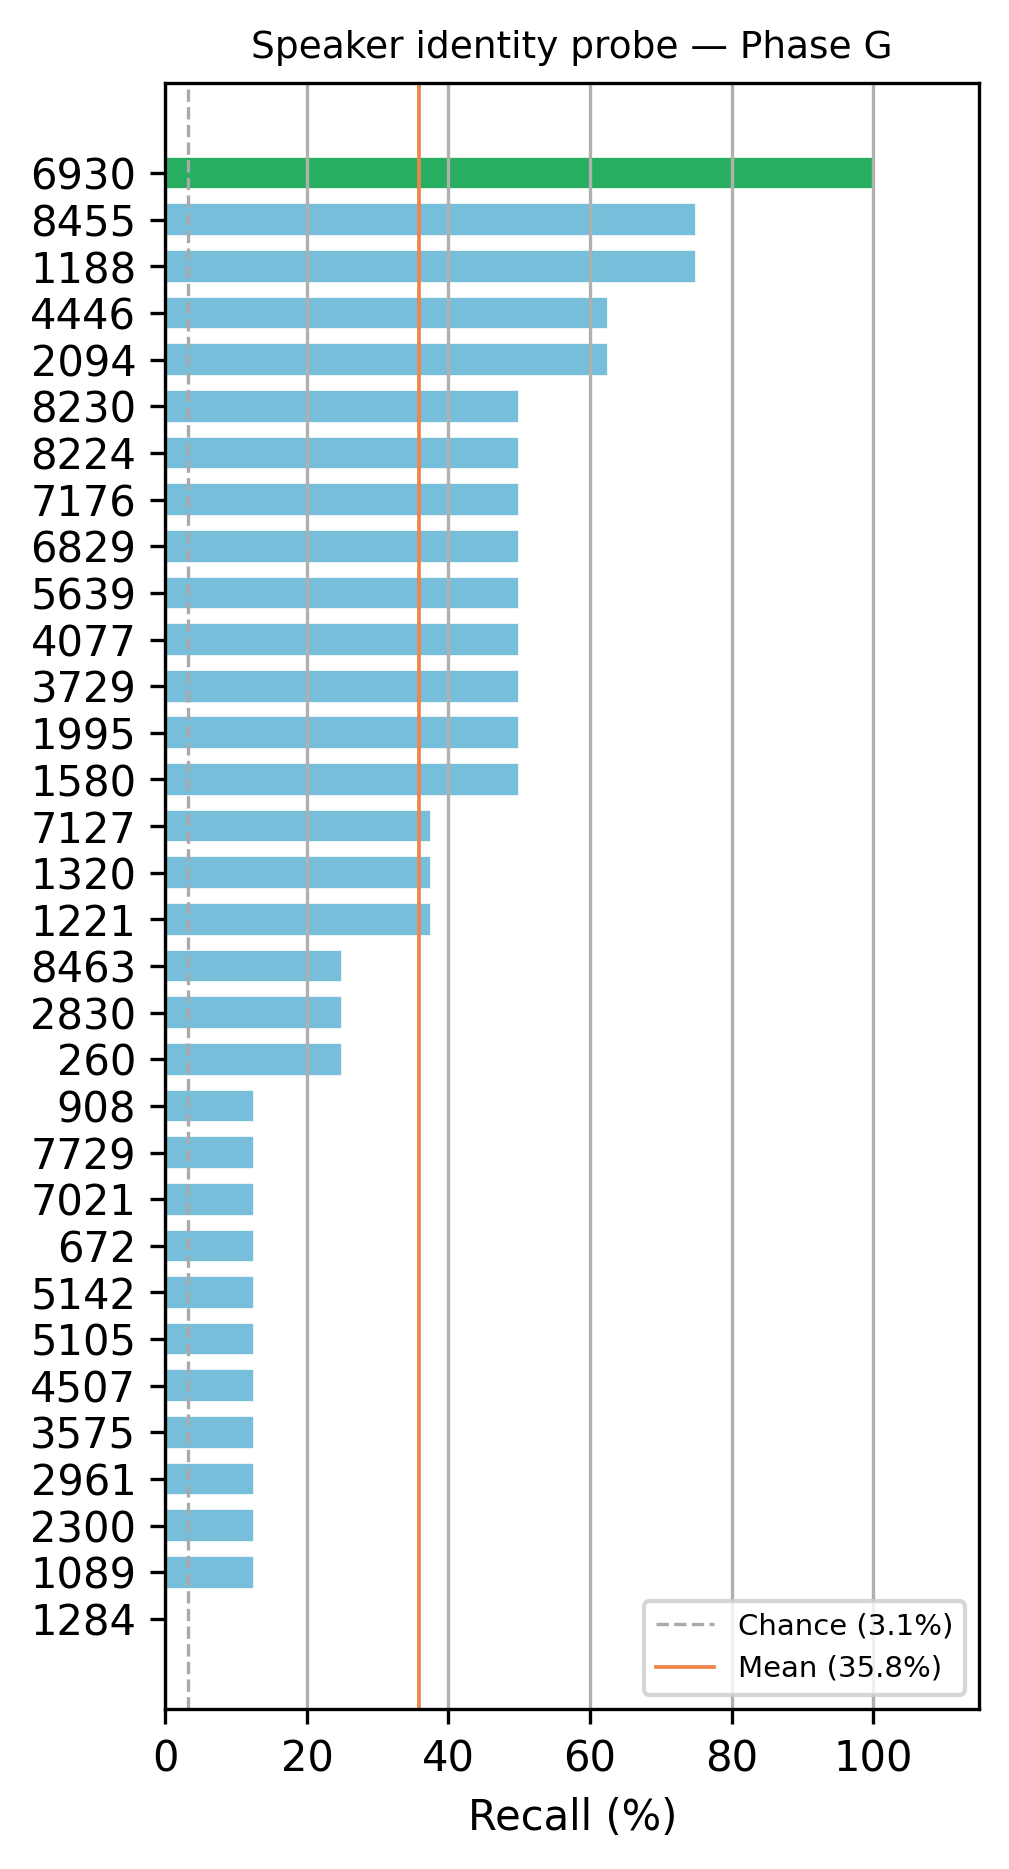
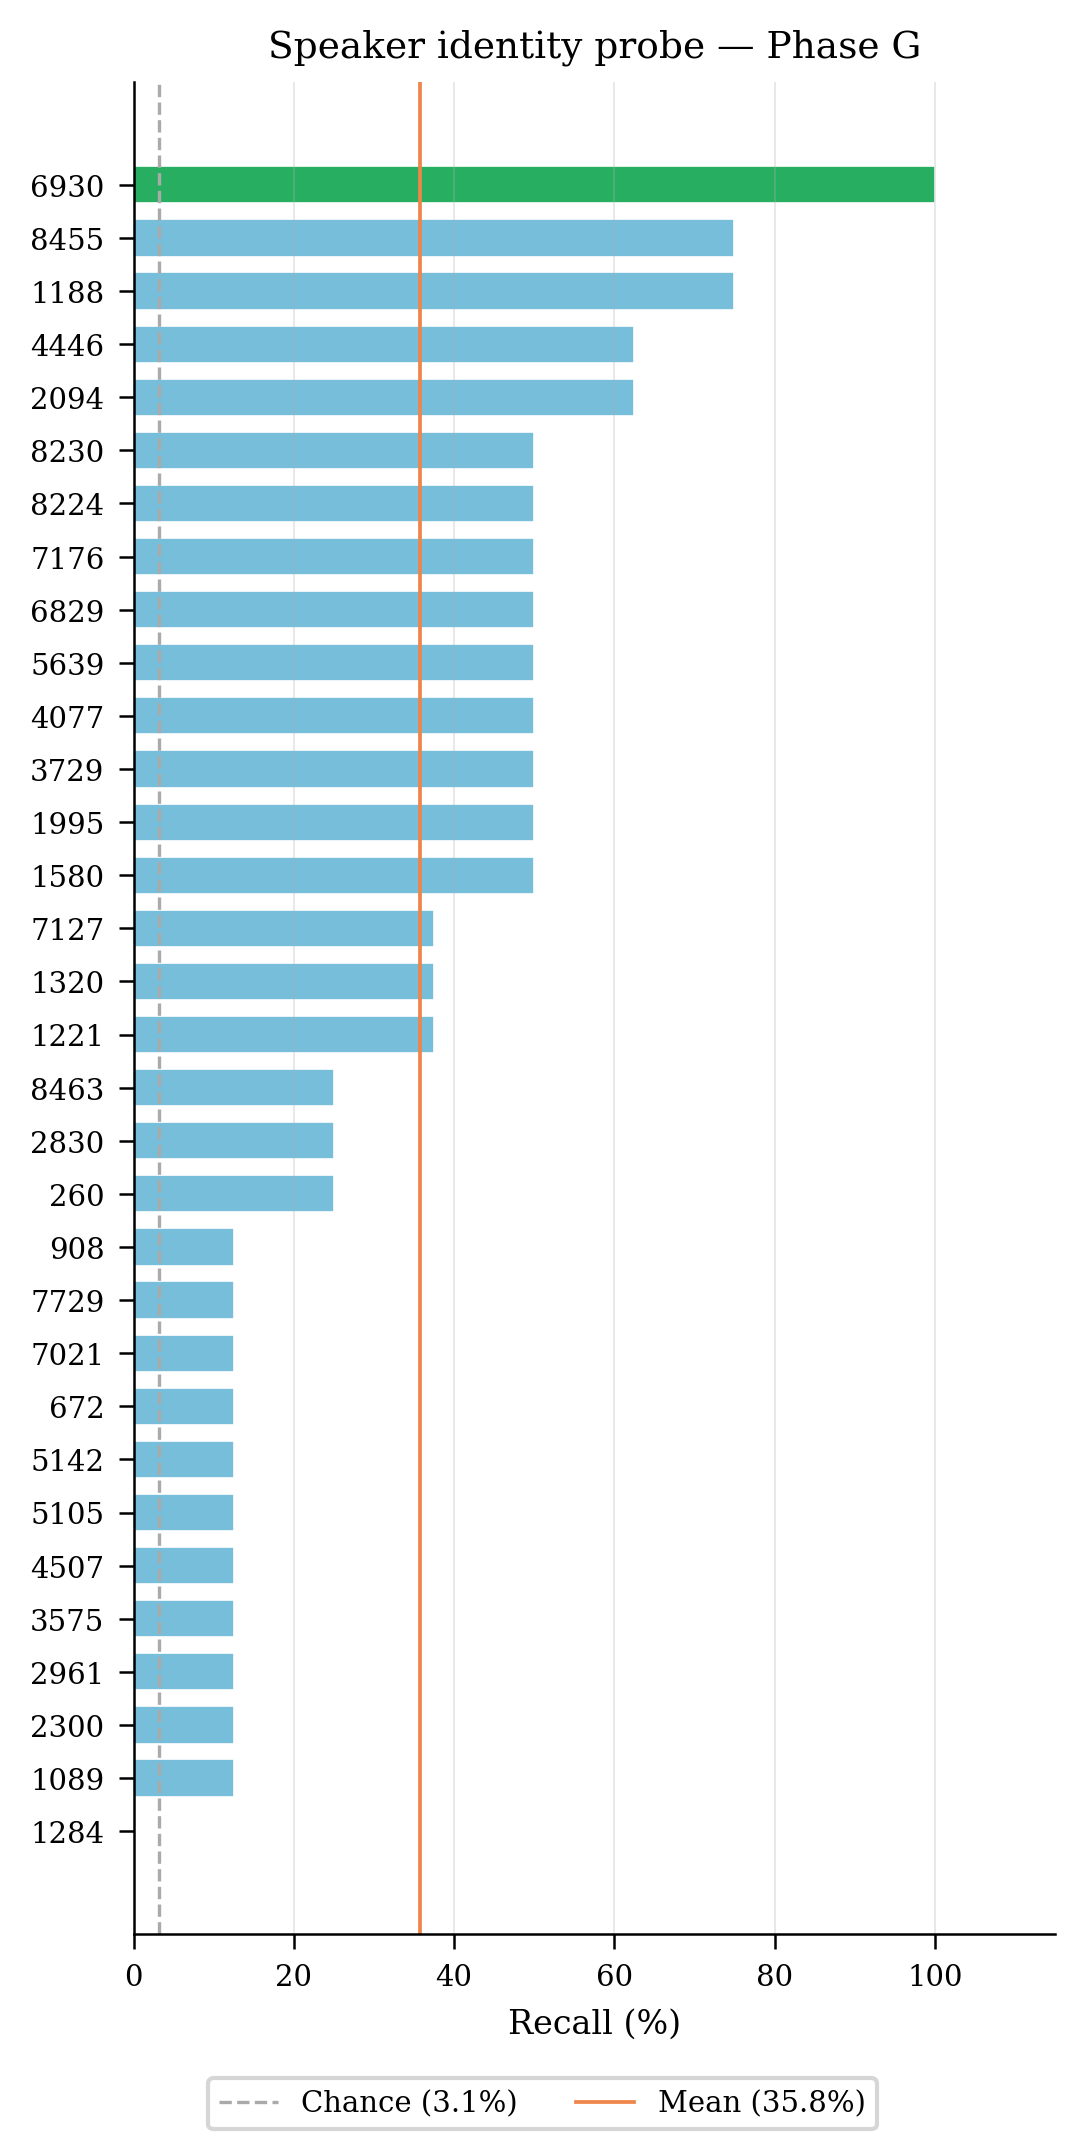
feat: update plotting functions and add centralized legend handling

Changed region(s): [[0.0307, 0.0, 0.9832, 1.0]]

diff --git a/scripts/figures/plots.py b/scripts/figures/plots.py
@@ -12,6 +12,8 @@ from matplotlib.lines import Line2D
 
 from . import style
 
+style.apply()
+
 
 class DataNotAvailable(RuntimeError):
     """Raised when a figure needs data that can't be derived from comparison reports."""
@@ -44,8 +46,8 @@ def fig_01_phase_progression(data: dict) -> plt.Figure:
         bars = ax.bar(x, vals, w, color=colors, edgecolor='white', linewidth=0.5)
         ax.errorbar(x, vals, yerr=[errs_lo, errs_hi], fmt='none',
                     color='#333', linewidth=0.8, capsize=2)
-        for bar, v in zip(bars, vals):
-            ax.text(bar.get_x() + bar.get_width() / 2, bar.get_height() + errs_hi[x[0]],
+        for bar, v, err_hi in zip(bars, vals, errs_hi):
+            ax.text(bar.get_x() + bar.get_width() / 2, bar.get_height() + err_hi,
                     f'{v:.3f}', ha='center', va='bottom', fontsize=6.5, color='#333')
         ax.set_xticks(x)
         ax.set_xticklabels(phases, fontsize=7)
@@ -97,7 +99,7 @@ def fig_01b_stoi_all_phases(data: dict) -> plt.Figure:
         ax.text(i, v + 0.005, f'{v:.3f}', ha='center', va='bottom', fontsize=6.5)
 
     ab_patch = mpatches.Patch(facecolor='#999', hatch='//', label='A/B: STOI only (PESQ unavailable)')
-    ax.legend(handles=[ab_patch], fontsize=7, loc='lower right')
+    style.legend(fig, handles=[ab_patch], labels=[ab_patch.get_label()])
     ax.set_xticks(x)
     ax.set_xticklabels(phase_order)
     ax.set_ylabel('STOI')
@@ -144,7 +146,7 @@ def fig_03_dim_entropy(data: dict) -> plt.Figure:
     ax.set_title('Per-dimension entropy — Phase G', fontsize=9)
     ax.set_xlim(-0.5, len(vals) - 0.5)
     ax.set_ylim(0.8, 2.2)
-    ax.legend(fontsize=7)
+    style.legend(fig, ax=ax)
     ax.grid(True, axis='y')
     return fig
 
@@ -198,6 +200,7 @@ def fig_05_ood(data: dict) -> plt.Figure:
               for r in rows]
 
     fig, (ax1, ax2) = plt.subplots(1, 2, figsize=(style.COL2_W, style.ROW_H + 0.5))
+    cap_line = None
     for ax, vals, xlabel, xlim, lbl in [
         (ax1, kbps,  'Effective bitrate (kbps)', (0, 10.5), True),
         (ax2, stois, 'STOI',                     (-0.1, 1.0), False),
@@ -211,15 +214,19 @@ def fig_05_ood(data: dict) -> plt.Figure:
         ax.set_xlim(*xlim)
         ax.grid(True, axis='x')
         if lbl:
-            ax.axvline(9.6, color='#aaa', linestyle=':', linewidth=0.8, label='9.6 kbps cap')
-            ax.legend(fontsize=7)
+            cap_line = ax.axvline(9.6, color='#aaa', linestyle=':', linewidth=0.8,
+                                   label='9.6 kbps cap')
+
+    # ax2 repeats ax1's category labels by default — drop them so they don't
+    # bleed into the middle of the figure, on top of ax1's bars.
+    ax2.set_yticklabels([])
 
     legend_els = [
         mpatches.Patch(color=style.PHASE_COLORS['G'],         label='Speech signal'),
         mpatches.Patch(color=style.PHASE_COLORS['D-Entropy'], label='Synthetic signal'),
+        cap_line,
     ]
-    fig.legend(handles=legend_els, fontsize=7, loc='lower center', ncol=2,
-               bbox_to_anchor=(0.5, -0.02))
+    style.legend(fig, handles=legend_els, labels=[h.get_label() for h in legend_els], ncol=3)
     fig.suptitle('OOD evaluation — Phase G', fontsize=9)
     return fig
 
@@ -299,7 +306,7 @@ def fig_08_speaker_probe(data: dict) -> plt.Figure:
                linewidth=0.9, label=f'Mean ({probe["accuracy"]:.1f}%)')
     ax.set_xlabel('Recall (%)')
     ax.set_xlim(0, 115)
-    ax.legend(fontsize=7, loc='lower right')
+    style.legend(fig, ax=ax)
     ax.grid(True, axis='x')
     ax.set_title('Speaker identity probe — Phase G', fontsize=9)
     return fig
@@ -445,7 +452,7 @@ def fig_16_multi_coder(data: dict) -> plt.Figure:
     ax.set_xticks(x)
     ax.set_xticklabels(phases)
     ax.set_ylabel('Compression ratio')
-    ax.legend(fontsize=7)
+    style.legend(fig, ax=ax)
     ax.grid(True, axis='y')
     ax.set_title('Compression ratio across coders — D-VAE ranks highest in all', fontsize=9)
     return fig
@@ -466,7 +473,8 @@ def fig_17_entropy_ablation(data: dict) -> plt.Figure:
         'kbps': (0.0, 6.5),
     }
 
-    fig, axes = plt.subplots(1, 3, figsize=(style.COL2_W, style.ROW_H))
+    fig, axes = plt.subplots(1, 3, figsize=(style.COL2_W, style.ROW_H),
+                              gridspec_kw={'wspace': 0.45})
     for ax, metric, label in [
         (axes[0], 'pesq', 'PESQ-WB'),
         (axes[1], 'stoi', 'STOI'),
@@ -518,23 +526,22 @@ def fig_18_channel_ablation(data: dict) -> plt.Figure:
     w = 0.25
     offsets = {'16-dim': -w, '32-dim': 0, '64-dim': +w}
 
-    for metric_idx, (ax, metric, ylabel) in enumerate([
+    for ax, metric, ylabel in [
         (axes[0], 'pesq', 'PESQ-WB'),
         (axes[1], 'stoi', 'STOI'),
-    ]):
-        legend_handles = []
+    ]:
         for width_label, (phases, color) in widths.items():
             vals = [ci[p][metric] if p in ci else float('nan') for p in phases]
             offset = offsets[width_label]
             ax.bar(x + offset, vals, w, color=color, edgecolor='white',
                    linewidth=0.4, label=width_label, alpha=0.85)
-            legend_handles.append(mpatches.Patch(color=color, label=width_label))
         ax.set_xticks(x)
         ax.set_xticklabels(stage_labels)
         ax.set_xlabel('Curriculum phase')
         ax.set_ylabel(ylabel)
-        ax.legend(fontsize=7)
         ax.grid(True, axis='y')
+
+    style.legend(fig, ax=axes[0], ncol=3)
 
     fig.suptitle('Channel width ablation: 16 / 32 / 64 bottleneck dimensions\n'
                  '(G-16 vs G: p<0.0001***;  G-64 vs G: p=0.006**;  n=40)',
@@ -620,7 +627,7 @@ def _rd_curve(data: dict, metric: str) -> plt.Figure:
             markersize=4, label='EnCodec (RVQ)')
     ax.set_xlabel('Effective bitrate (kbps)')
     ax.set_ylabel(ylabel)
-    ax.legend(fontsize=7)
+    style.legend(fig, ax=ax)
     ax.grid(True)
     ax.set_title(f'Rate-distortion: {ylabel}', fontsize=9)
     return fig

diff --git a/scripts/figures/style.py b/scripts/figures/style.py
@@ -1,4 +1,6 @@
 """Shared matplotlib style, sizing, and phase palette for thesis figures."""
+from __future__ import annotations
+
 import matplotlib as mpl
 import matplotlib.pyplot as plt
 
@@ -66,3 +68,23 @@ def apply() -> None:
 def new_fig(w: float = COL2_W, h: float = ROW_H) -> plt.Figure:
     apply()
     return plt.figure(figsize=(w, h))
+
+
+def legend(fig: plt.Figure, ax=None, handles=None, labels=None, ncol: int | None = None) -> None:
+    """Place a figure's legend in one fixed slot — outside the axes, centered
+    below the plot — so it never overlaps plotted data and looks the same
+    across every figure. Every figure that needs a legend should call this
+    instead of ax.legend()/fig.legend() directly.
+
+    handles/labels default to whatever the given (or first) axes has labelled
+    via label= kwargs on its artists.
+    """
+    if handles is None:
+        src = ax if ax is not None else fig.axes[0]
+        handles, labels = src.get_legend_handles_labels()
+    if ncol is None:
+        ncol = len(handles)
+    # 'outside' placement only reserves space correctly under constrained
+    # layout — figure functions in this module don't otherwise enable it.
+    fig.set_layout_engine('constrained')
+    fig.legend(handles, labels, loc='outside lower center', ncol=ncol, fontsize=7)
